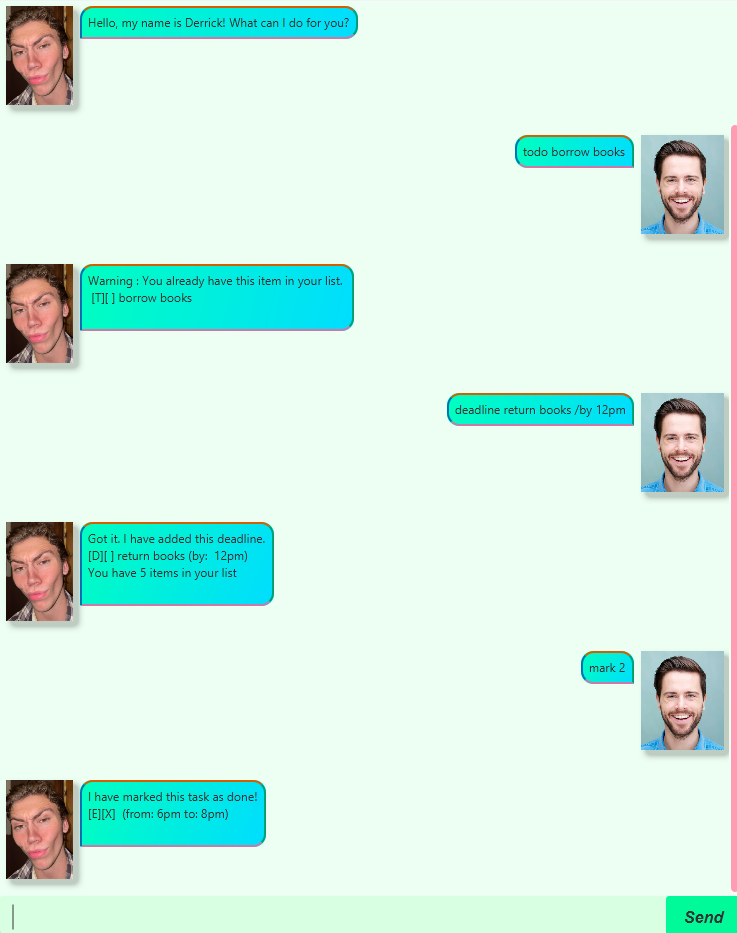
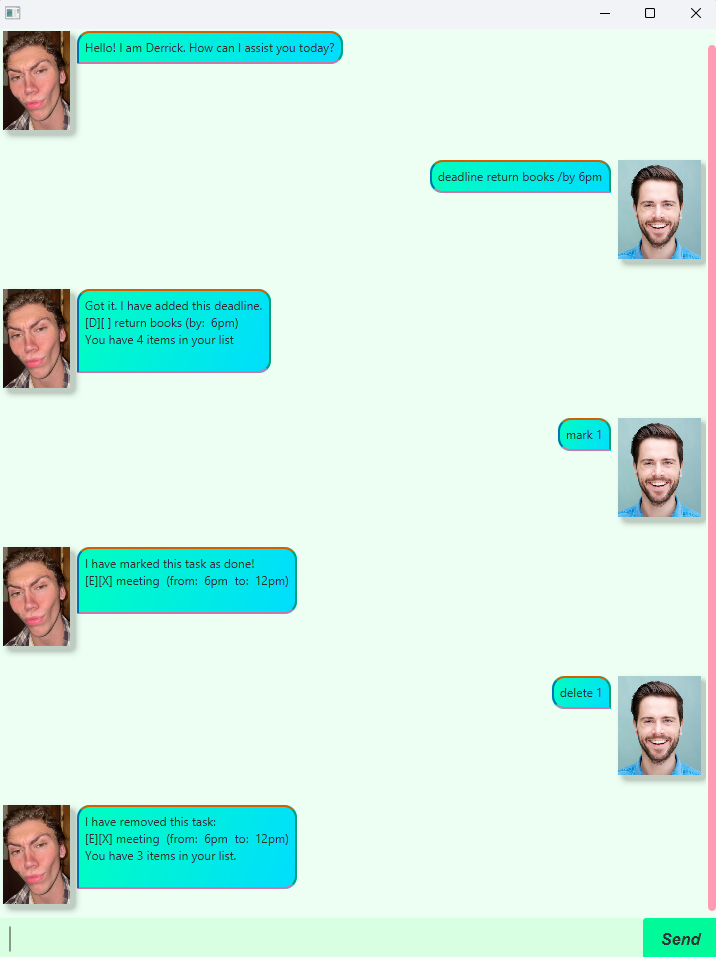
Update README to include more features of the chatbot

diff --git a/docs/README.md b/docs/README.md
@@ -4,6 +4,20 @@
 Welcome to the Derrick Chatbot! Derrick is designed to help you manage your tasks efficiently. 
 You can add new tasks, mark tasks as complete as well as find tasks through easy-to-use chat commands.
 
+## Adding todos
+Adds a Todo Task to the current TaskList.
+The chatbot will inform you that the Todo has been added successfully and displays the
+Todo description.
+
+Example: `todo read book`
+
+
+```
+Got it. I have added this todo.
+[T][] read book
+You have 4 items in your list.
+```
+
 ## Adding deadlines
 
 Adds a Deadline Task to the current TaskList.
@@ -17,7 +31,37 @@ Example: `deadline return books /by 12pm`
 ```
 Got it. I have added this event
 [D][] return books (by: 12pm)
+You have 4 items in your list.
 ```
+
+## Adding events
+
+Adds a Event Task to the current TaskList.
+The chatbot will inform you that the Event has been added successfully and displays the
+Event description, start date and end date.
+
+
+Example: `event party /from 6pm /to 10pm`
+
+
+```
+Got it. I have added this event.
+[E][] party (from: 6pm to: 10pm)
+You have 6 items in your list.
+```
+## Displaying the TaskList
+
+Shows the list of all the tasks currently stored in the TaskList.
+
+Example: `list`
+
+```
+Here are the items in your list:
+1. [T][X] Read book
+2. [D][] Meeting (by: 12pm)
+3. [E][X] party (from: 6pm to: 10pm)
+```
+
 
 ## Marking/Unmarking an Item
 
@@ -39,6 +83,26 @@ I have marked this task as not done yet!
 [D][] return books (by: 12pm)
 ```
 
+## Deleting Tasks
+
+To delete an item from the current TaskList, simply execute the following command: `delete POSITION`
+
+Sample List:
+- [x] meeting
+- [ ] borrow books
+- [ ] return books
+
+Example: `delete 1`
+
+```
+I have removed this task: 
+[T][] borrow books
+You have 2 items in your list.
+```
+
+Resulting Sample List:
+- [x] meeting
+- [ ] return books
 
 ## Finding Tasks
 
